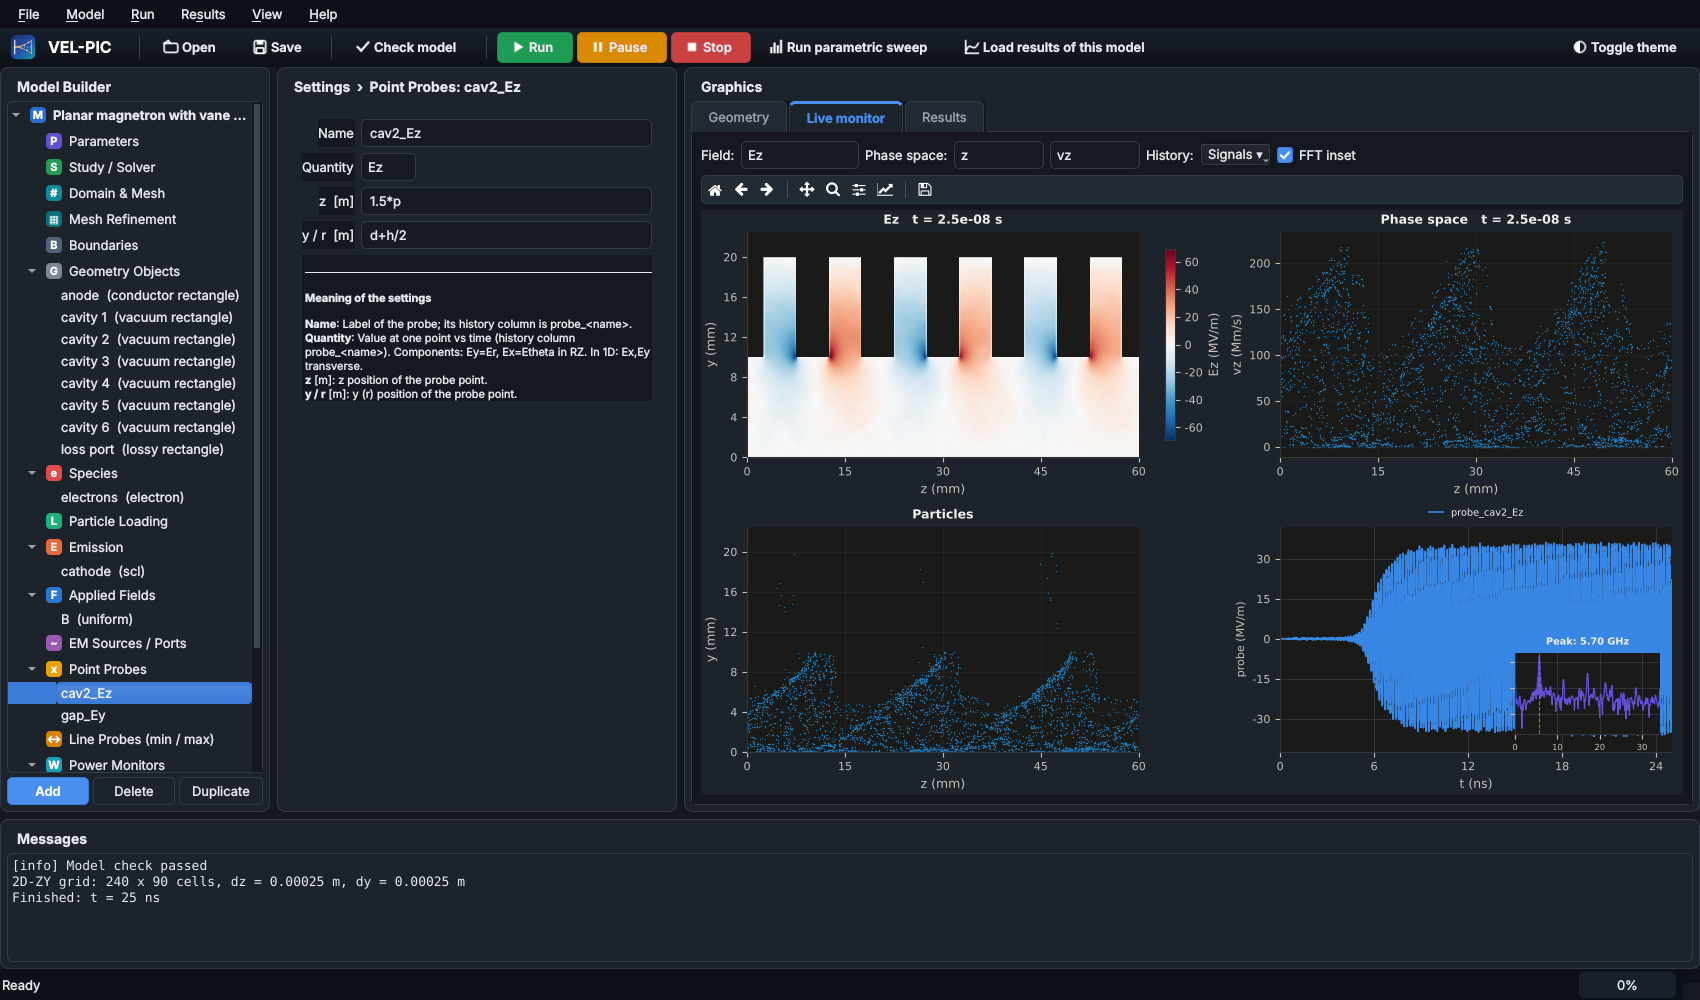
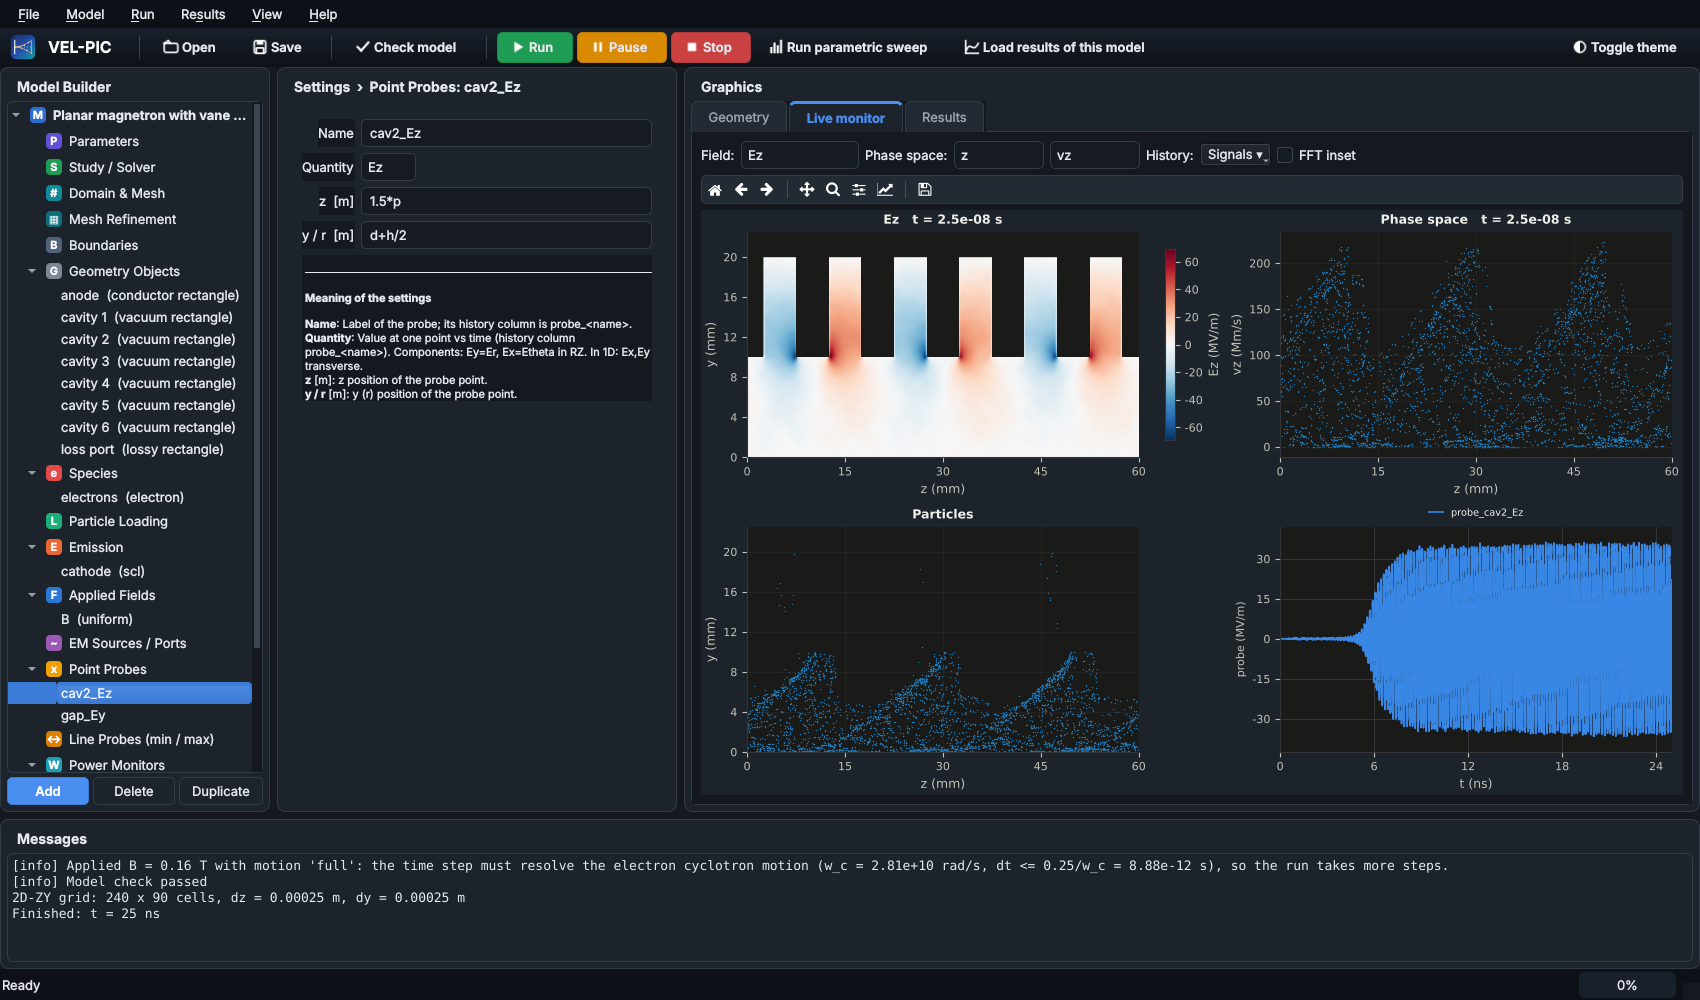
Update VEL-PIC

Changed region(s): [[0.8729, 0.62, 0.9976, 0.744], [0.0, 0.837, 0.2806, 0.93]]

diff --git a/README.md b/README.md
@@ -19,7 +19,7 @@ graphical interface, a command-line runner and a Python API.
 | **2D-ZY** (Cartesian, per unit depth) | finite elements (Q1), locally refined meshes | Yee FDTD, all six field components |
 | **2D-RZ** (axisymmetric) | finite elements with r-weighted weak form | cylindrical Yee FDTD with exact on-axis update |
 
-<p align="center"><img src="docs/images/gui_live_monitor.png" alt="VEL-PIC live monitor" width="900"></p>
+<p align="center"><img src="docs/images/gui_model_builder.png" alt="VEL-PIC model builder" width="900"></p>
 
 ## Features
 
@@ -43,24 +43,41 @@ graphical interface, a command-line runner and a Python API.
 
 ### Limiting current of small emitters
 
-Space-charge-limited flow from a strip (2D-ZY) and a disk (2D-RZ) emitter with low injection energy
-(Lau, Chernin, Heri & Zhang 2026). Below the limiting current the flow is steady and the whole current
-reaches the anode; above it the potential minimum reaches −Δ·V₀, a virtual cathode forms and oscillates,
-and part of the current returns to the cathode. The steady limiting-current solver included with VEL-PIC
-agrees with the paper's POISSON values to within 0.25 %.
+Space-charge-limited flow from a strip (2D-ZY) and a disk (2D-RZ) emitter with low injection energy,
+Δ·eV₀ = 25 eV at V₀ = 2.5 kV (Lau, Chernin, Heri & Zhang 2026). The live monitor shows the potential along
+the emitter axis with its minimum marked, the phase space, the particles and the history of the potential
+minimum φ_min. The steady limiting-current solver included with VEL-PIC agrees with the paper's POISSON
+values to within 0.25 %.
 
-<p align="center"><img src="docs/images/diode_limiting_current.png" alt="Diode below and above the limiting current" width="900"></p>
+**Below the limit (strip, J = 0.96 J_max).** The flow is steady: φ_min settles at −4.6 V, well above
+−Δ·V₀ = −25 V, and the whole current reaches the anode.
+
+<p align="center"><img src="docs/images/gui_diode_strip_zy.png" alt="Strip emitter below the limiting current" width="900"></p>
+
+**Above the limit (disk, J = 1.04 J_max).** The potential minimum reaches −Δ·V₀, a virtual cathode forms and
+oscillates around φ_min ≈ −25.5 V (FFT inset: peak at 7.8 GHz), and part of the current returns to the cathode.
+
+<p align="center"><img src="docs/images/gui_diode_disk_rz.png" alt="Disk emitter above the limiting current" width="900"></p>
 
 Examples: `yylau_2026_strip_caseA_zy` (below the limit) and `yylau_2026_disk_virtual_cathode_rz` (above it).
 
 ### Planar vane magnetron
 
-A six-cavity planar magnetron at 170 kV and 0.16 T, inside the Hull–Buneman–Hartree window. Space-charge
-limited emission from the cathode at y = 0 forms three spokes; the cavity field grows from noise, locks into
-the π mode and saturates at 5.70 GHz, 2.4 % below the cold-test frequency. A resistive load in one cavity
-sets the loaded Q to 250.
+A six-cavity planar magnetron at 170 kV and 0.16 T, inside the Hull–Buneman–Hartree window (model shown at the
+top of this page). Space-charge-limited emission from the cathode at y = 0 forms three spokes; the cavity field
+grows from noise, locks into the π mode and saturates at about 35 MV/m and 5.70 GHz, 2.4 % below the cold-test
+frequency. A resistive load in one cavity sets the loaded Q to 250.
 
-<p align="center"><img src="docs/images/planar_magnetron_em.png" alt="Planar magnetron: field, phase space, spokes and saturation" width="900"></p>
+The model: cathode at y = 0 (red, emitting over the full period), anode block with six vane cavities above the
+1 cm interaction gap, periodic side boundaries, the loss port in cavity 1 and two field probes, on a uniform
+240 × 90 Yee mesh (0.25 mm cells).
+
+<p align="center"><img src="docs/images/gui_magnetron_mesh.png" alt="Planar magnetron geometry and mesh" width="900"></p>
+
+The live monitor at the end of the run (25 ns) shows E_z in the π mode, the phase space, the spokes and the
+cavity-2 E_z probe.
+
+<p align="center"><img src="docs/images/gui_live_monitor.png" alt="Planar magnetron live monitor at 25 ns" width="900"></p>
 
 Example: `planar_magnetron_em`.
 
